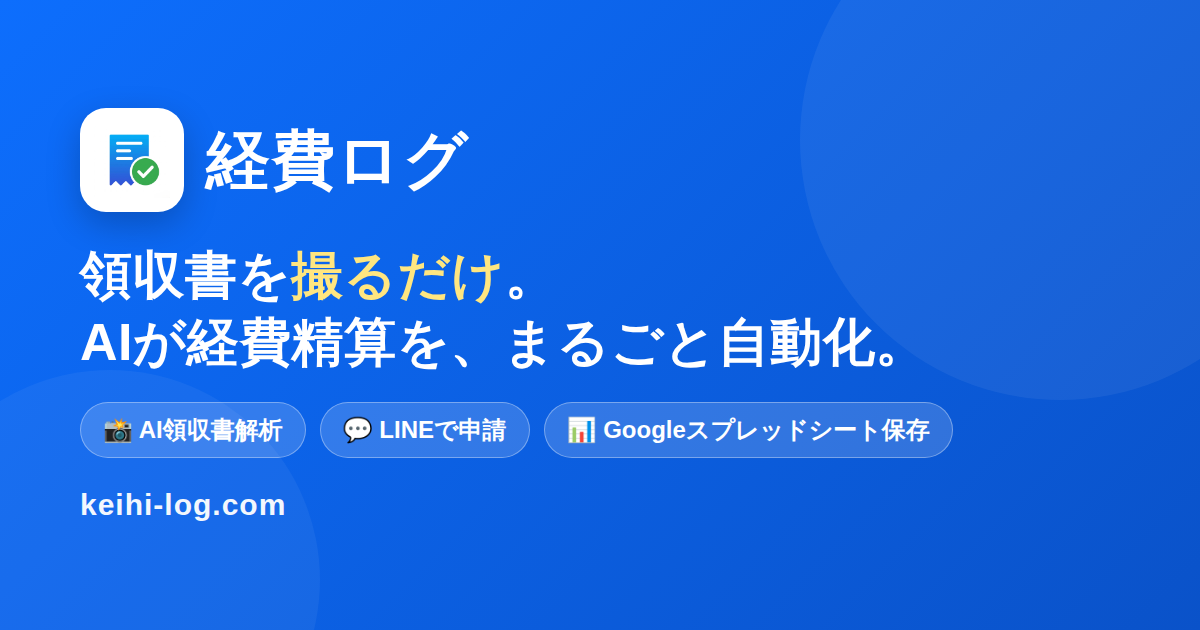
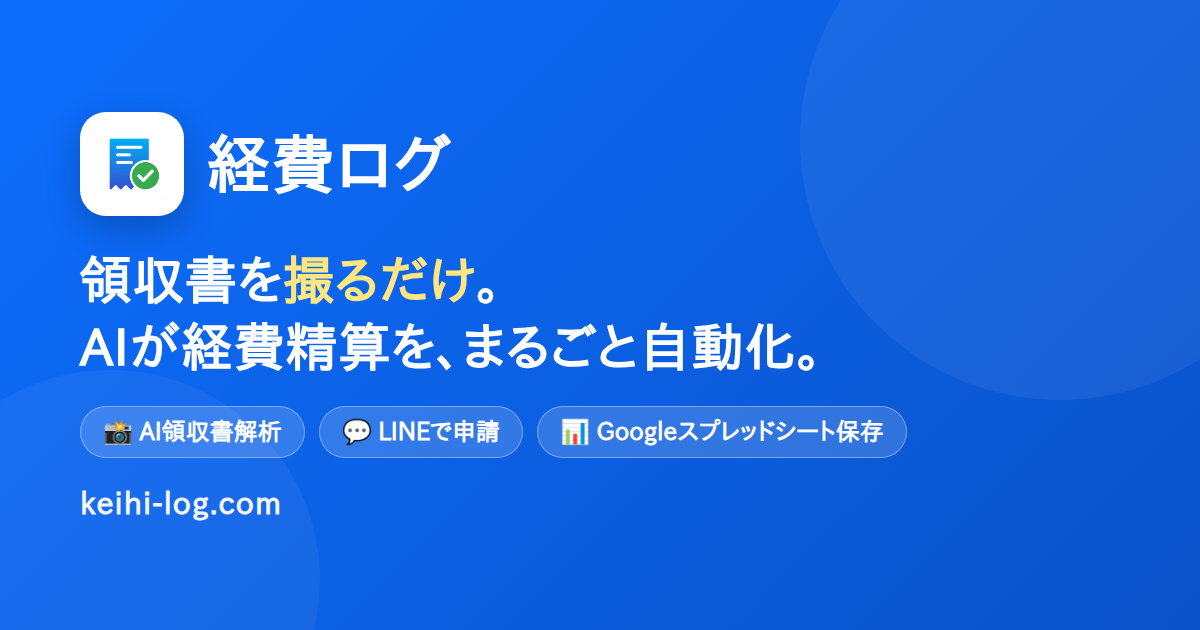
OGPバナーのフォントを日本語（中国語グリフ化を修正）で再生成＋版数更新
Claude-Session: https://claude.ai/code/session_01TtGd5JqKK4DvpvDK9aox4a

diff --git a/public/index.html b/public/index.html
@@ -20,7 +20,7 @@
 <meta property="og:title" content="経費ログ｜領収書を撮影して自動記録・経費精算をまるごとデジタル化">
 <meta property="og:description" content="領収書を撮影するだけでAIが金額・日付・支払先を自動記録。経費申請・承認・集計をブラウザで完結。データはGoogleスプレッドシートに保存。電帳法対応可能。月額330円〜。">
 <meta property="og:url" content="https://keihi-log.com/">
-<meta property="og:image" content="https://keihi-log.com/img/ogp.png?v=20260707">
+<meta property="og:image" content="https://keihi-log.com/img/ogp.png?v=20260707b">
 <meta property="og:image:width" content="1200">
 <meta property="og:image:height" content="630">
 <meta property="og:image:alt" content="経費ログ｜領収書を撮るだけでAIが経費精算を自動化">
@@ -28,7 +28,7 @@
 <meta name="twitter:card" content="summary_large_image">
 <meta name="twitter:title" content="経費ログ｜領収書を撮影して自動記録">
 <meta name="twitter:description" content="領収書を撮るだけでAIが自動記録。経費精算をまるごとデジタル化。月額330円〜。">
-<meta name="twitter:image" content="https://keihi-log.com/img/ogp.png?v=20260707">
+<meta name="twitter:image" content="https://keihi-log.com/img/ogp.png?v=20260707b">
 <link rel="icon" href="/favicon.ico" sizes="any">
 <link rel="icon" type="image/svg+xml" href="/favicon.svg">
 <link rel="apple-touch-icon" href="/icons/icon-192.png">
